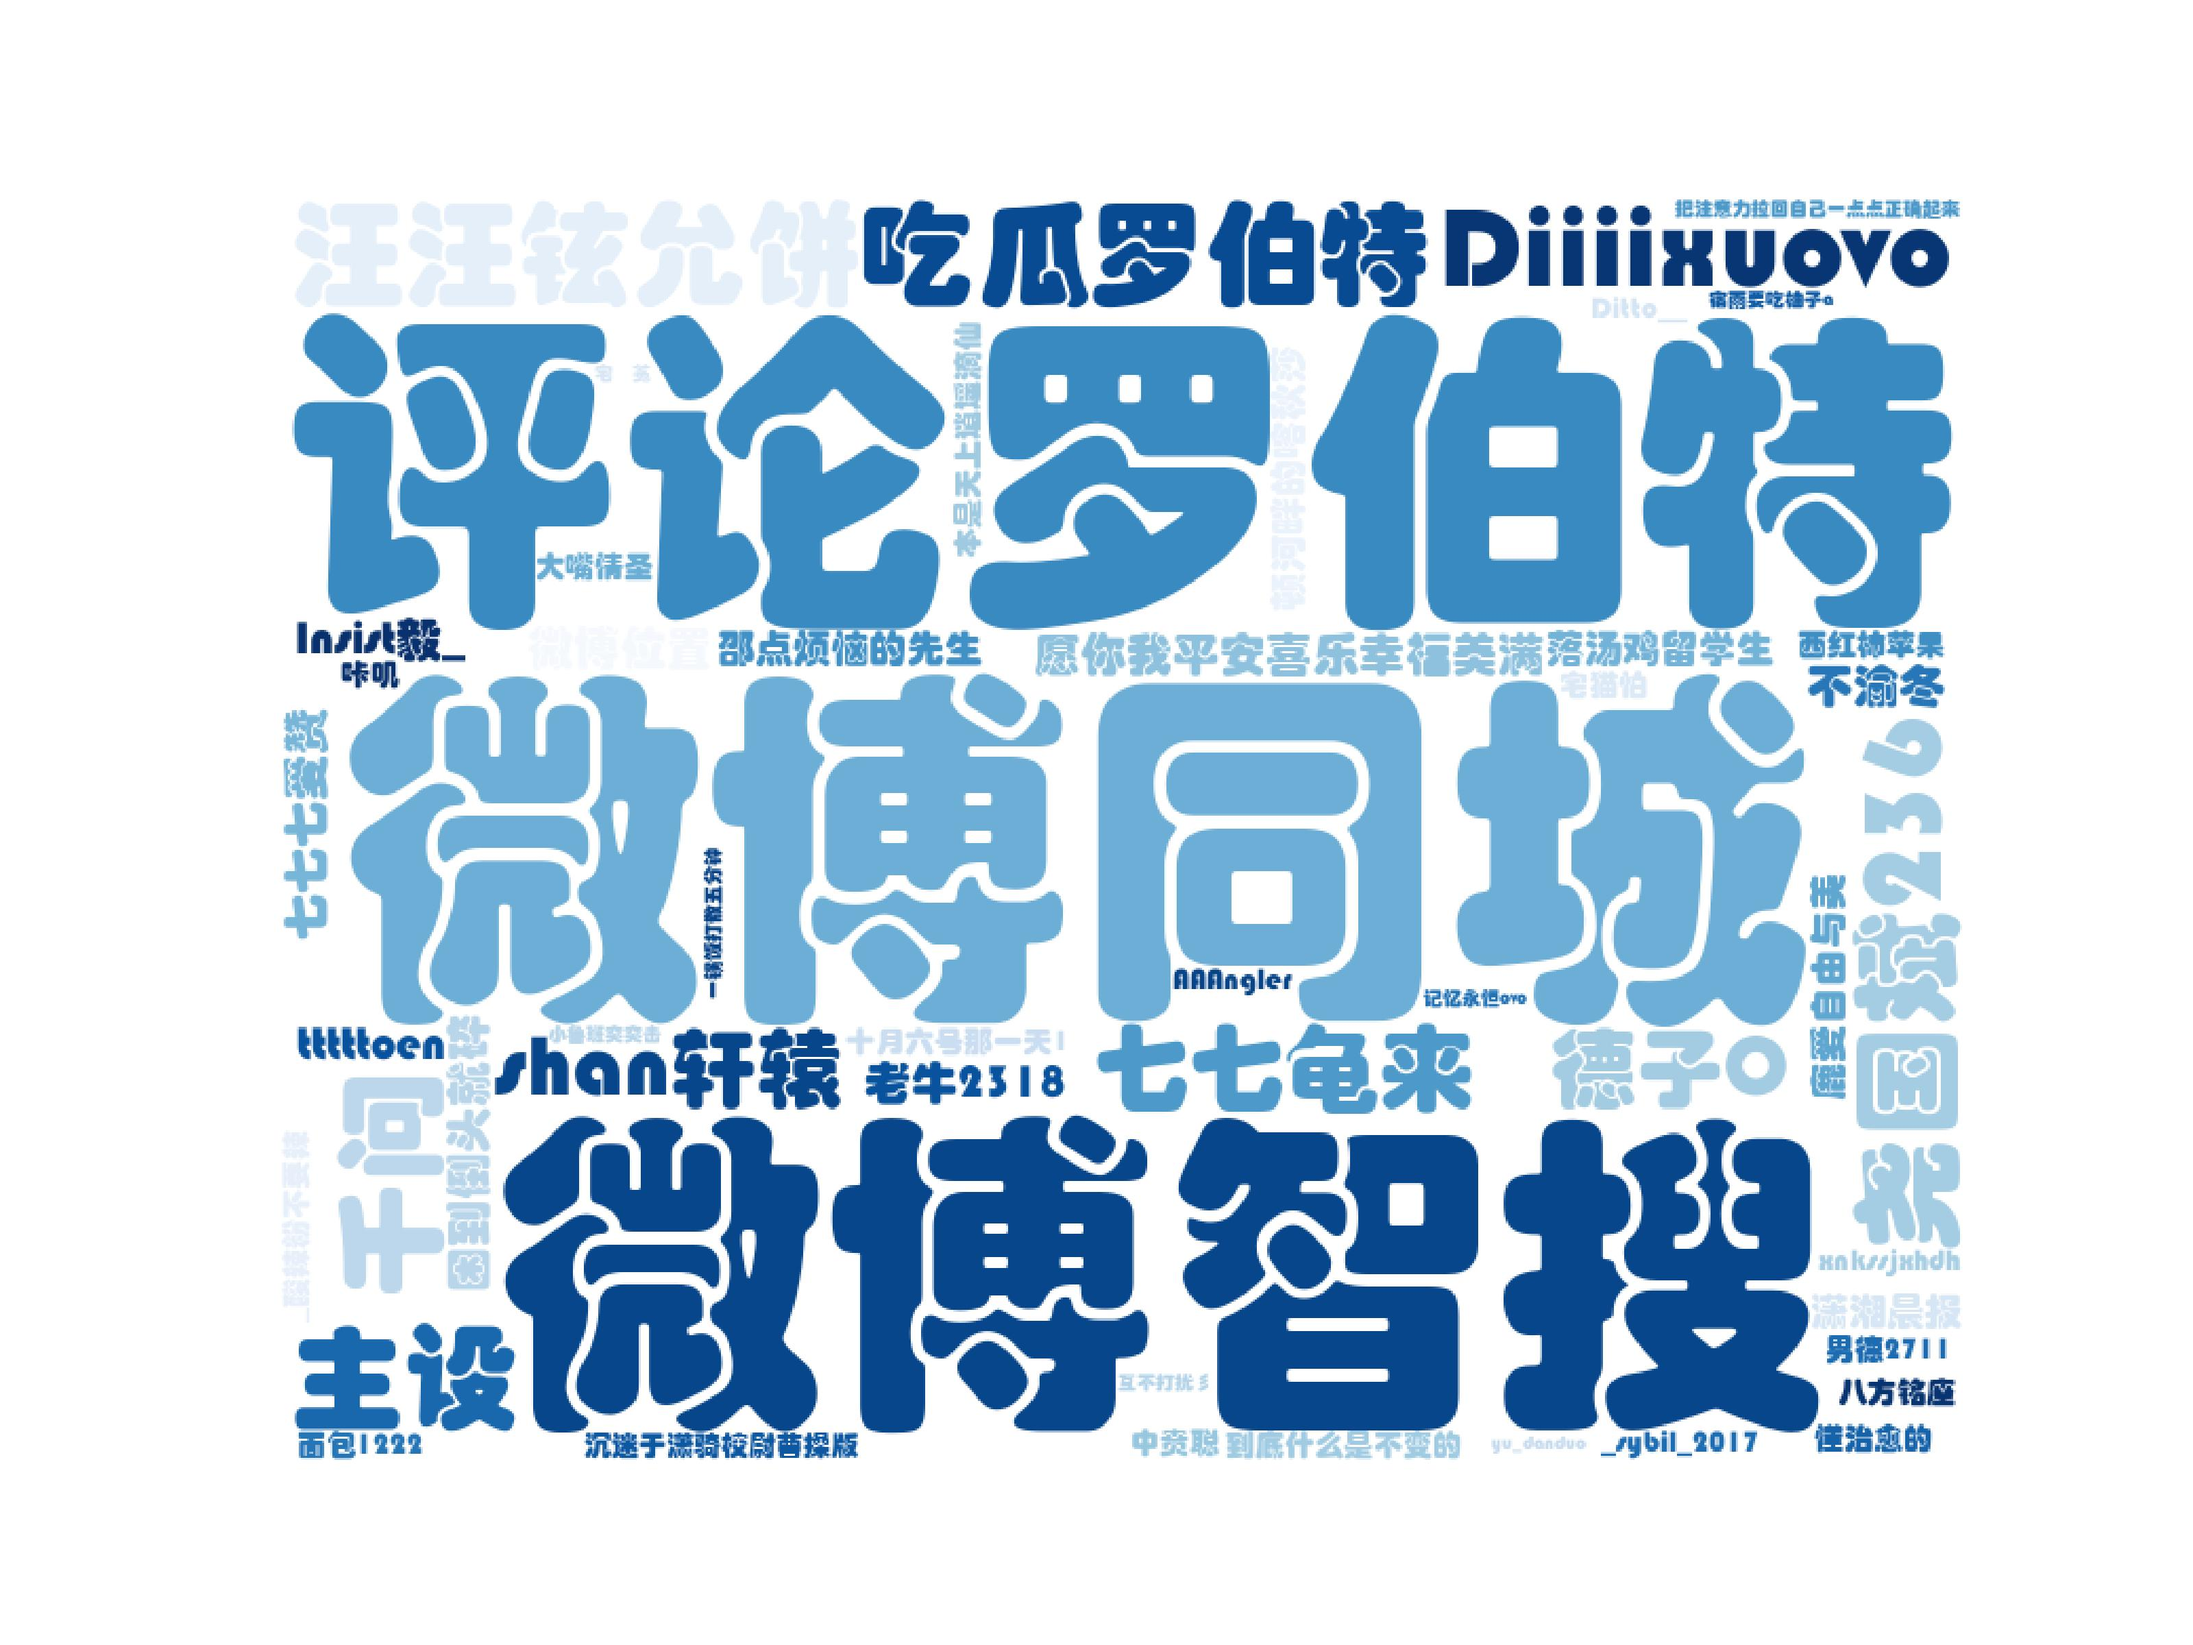
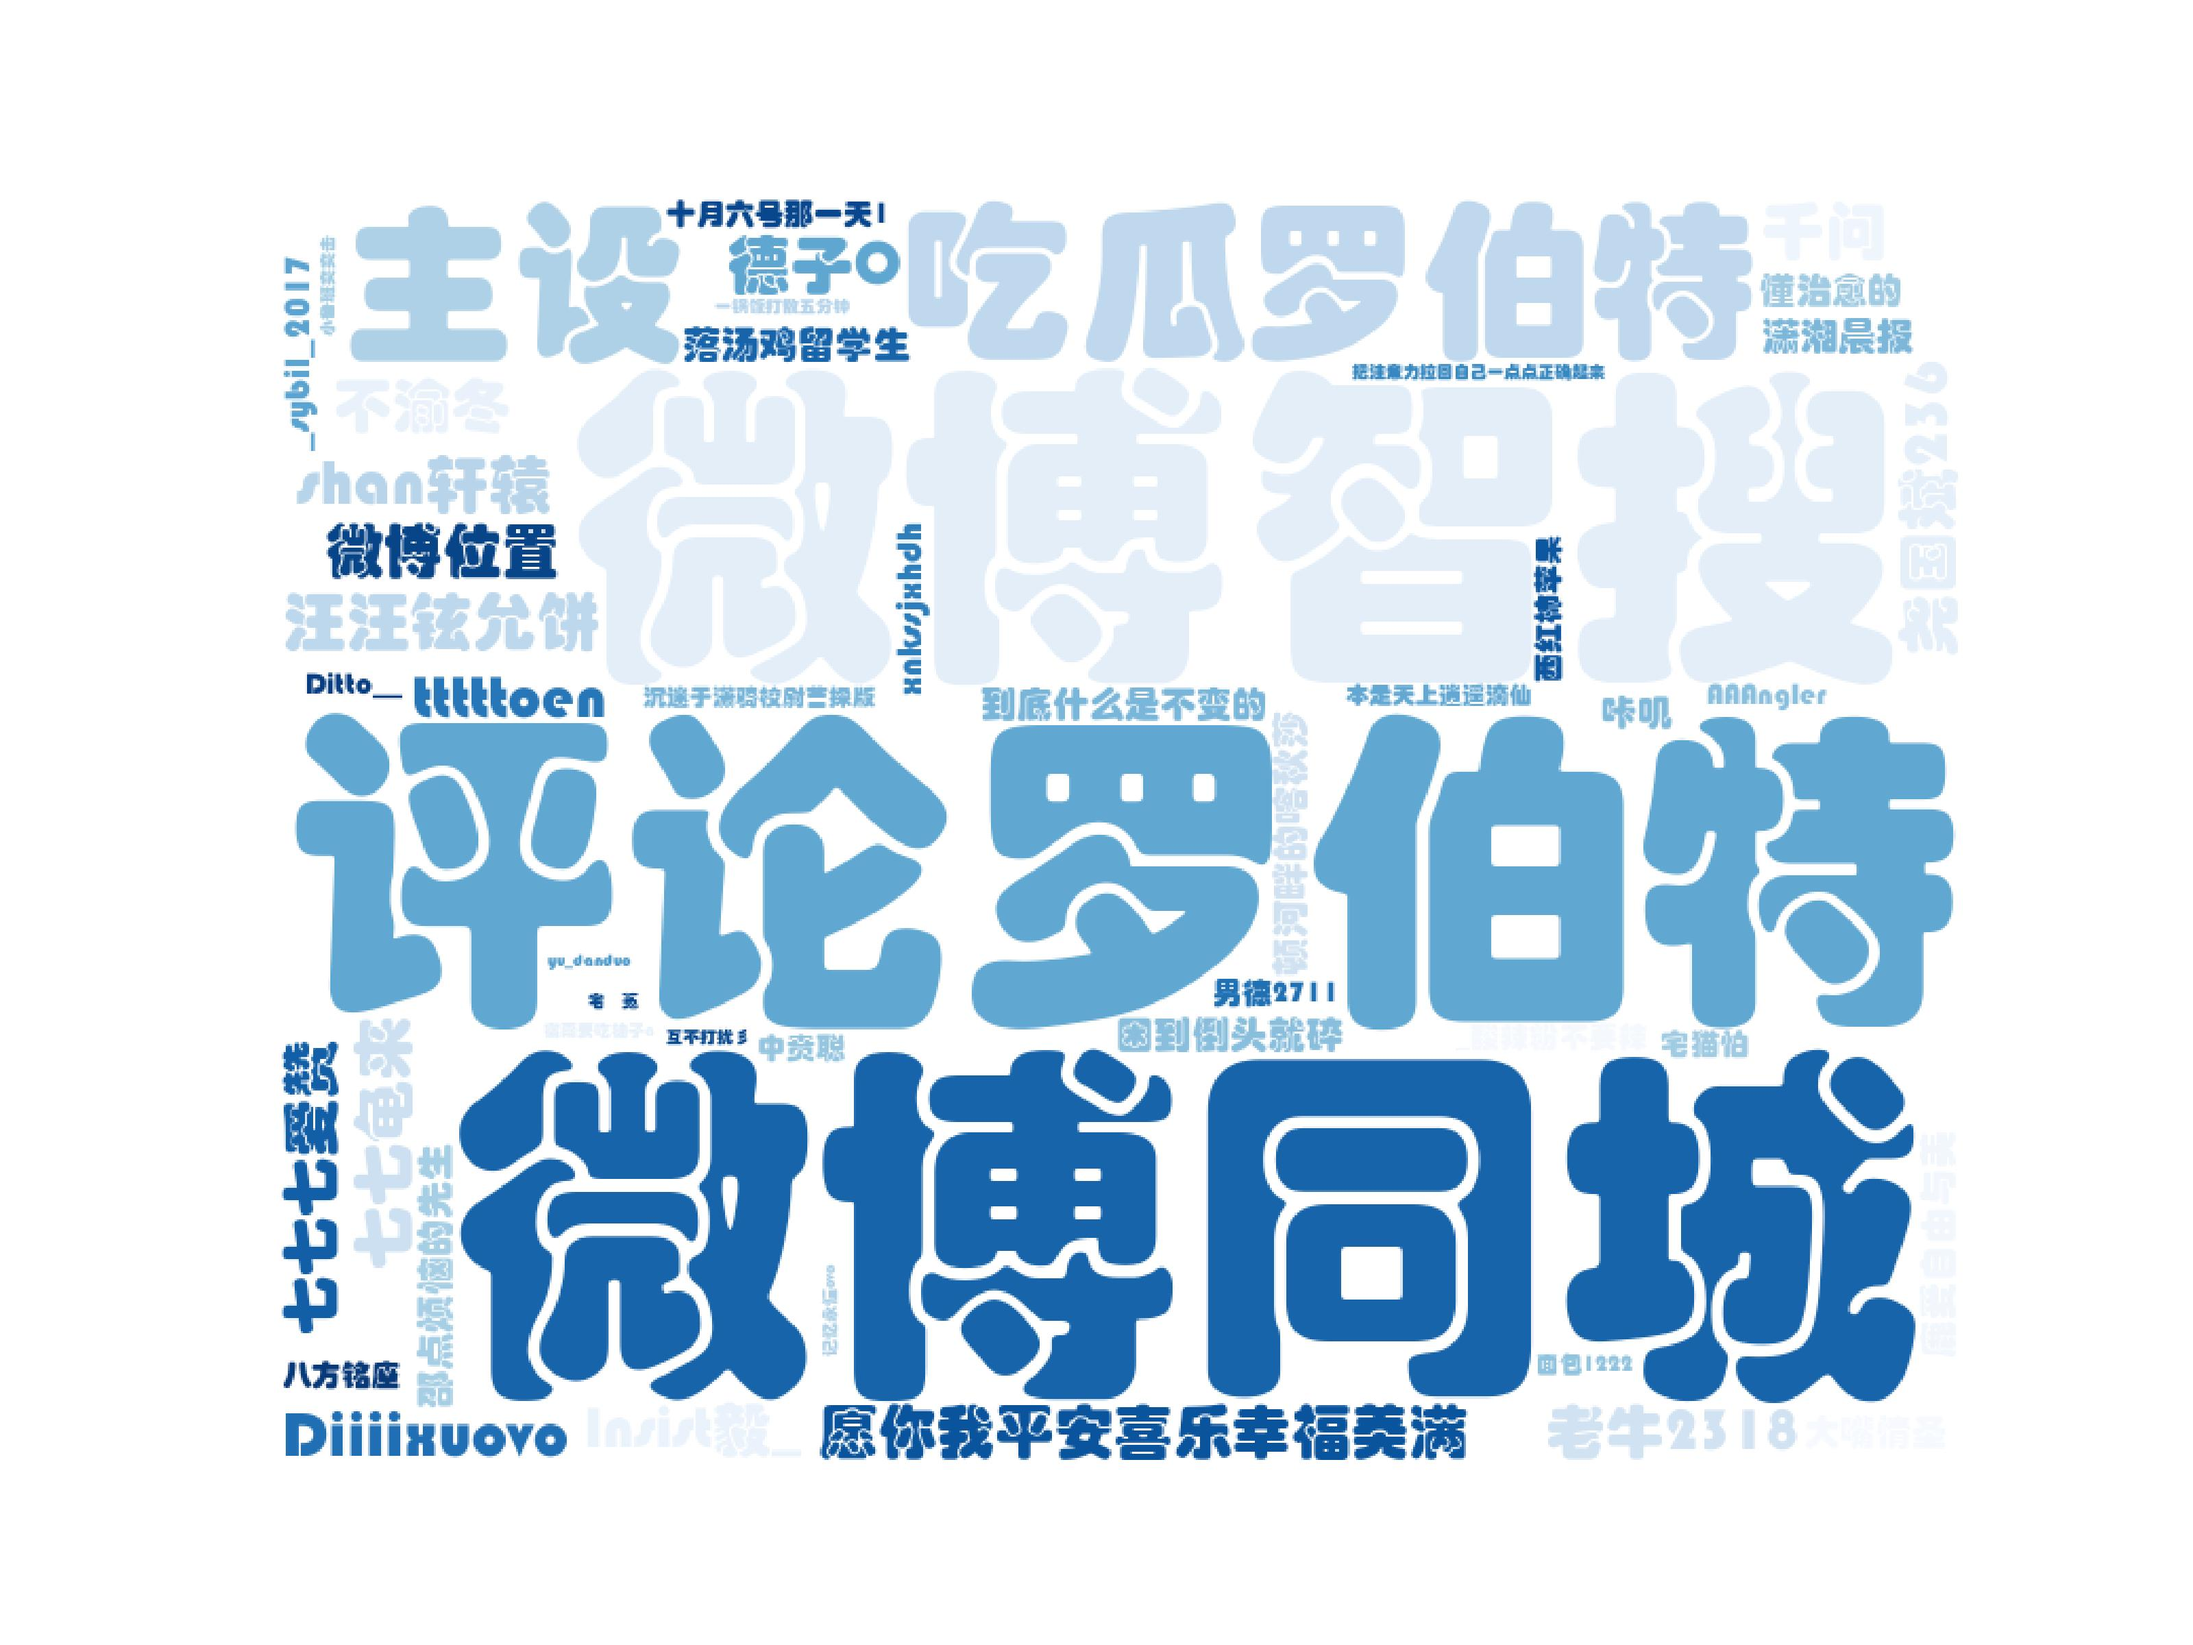
fix:更新

diff --git a/view/page/page.py b/view/page/page.py
@@ -63,7 +63,7 @@ def hotWord():
     df = pd.read_csv('./fenci/comment_fre.csv', nrows=100)
     for value in df.values:
         hotwordList.append(value[0])
-    # 获取请求参数，如果没有获取到，给个默认值 第一个列表数据
+    # 获取请求参数默认值第一个列表数据
     defaultHotWord = request.args.get('word', default=hotwordList[0])
     hotwordNum = 0  # 出现次数
     for value in df.values:
@@ -105,7 +105,7 @@ def articleData():
         if article and article[1]:  # 确保article存在且content非空
             stc = SnowNLP(article[1]).sentiments
         else:
-            stc = 0.5  # 默认中性情感值，或根据业务需求调整
+            stc = 0.5  # 默认中性情感值
         if stc > 0.6:
             sentiments = '正面'
         elif stc < 0.2:
@@ -123,7 +123,7 @@ def articleDataAnalysis():
     df= pd.read_csv('./data/arcType_data.csv')
     for value in df.values:
         arcTypeList.append(value[0])
-    # 获取请求参数，如果没有获取到，给个默认值第一个列表数据
+    # 获取请求参数，默认值第一个列表数据
     defaultArcType = request.args.get('arcType', default=arcTypeList[0])
     print(defaultArcType)
     articleList = articleDao.getArticleByArcType(defaultArcType)
@@ -151,7 +151,7 @@ def articleDataAnalysis():
 
 @pb.route('/repostAnalysis')
 def repostAnalysis():
-     #获取请求参数，如果没有获取到，给个默认值第一个列表数据
+     #获取请求参数，默认值第一个列表数据
      ArcType = request.args.get('arcType', default='热门')
      print(ArcType)
      #转发路径图
@@ -258,7 +258,7 @@ def specificArticleData():
         if article and article[1]:  # 确保article存在且content非空
             stc = SnowNLP(article[1]).sentiments
         else:
-            stc = 0.5  # 默认中性情感值，或根据业务需求调整
+            stc = 0.5  # 默认中性情感值
         if stc > 0.6:
             sentiments = '正面'
         elif stc < 0.2:

diff --git a/spider/selenium_get_cookie.py b/spider/selenium_get_cookie.py
@@ -12,7 +12,7 @@ from selenium.webdriver.edge.options import Options
 edge_options = Options()
 edge_options.binary_location = r"C:\Program Files (x86)\Microsoft\Edge\Application\msedge.exe"
 driver = webdriver.Edge(options=edge_options)
-'''微博登录网站'''
+#微博登录网站
 driver.get('https://passport.weibo.com/sso/signin')
 cookieStr = driver.get_cookies()
 oldCookie=cookieStr
